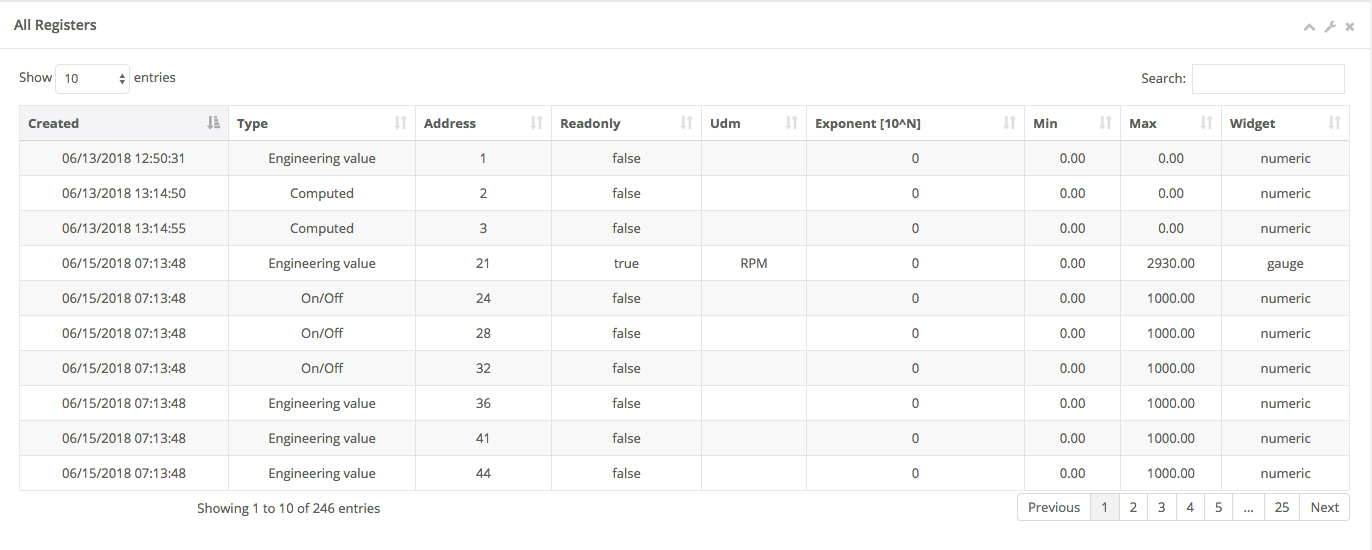
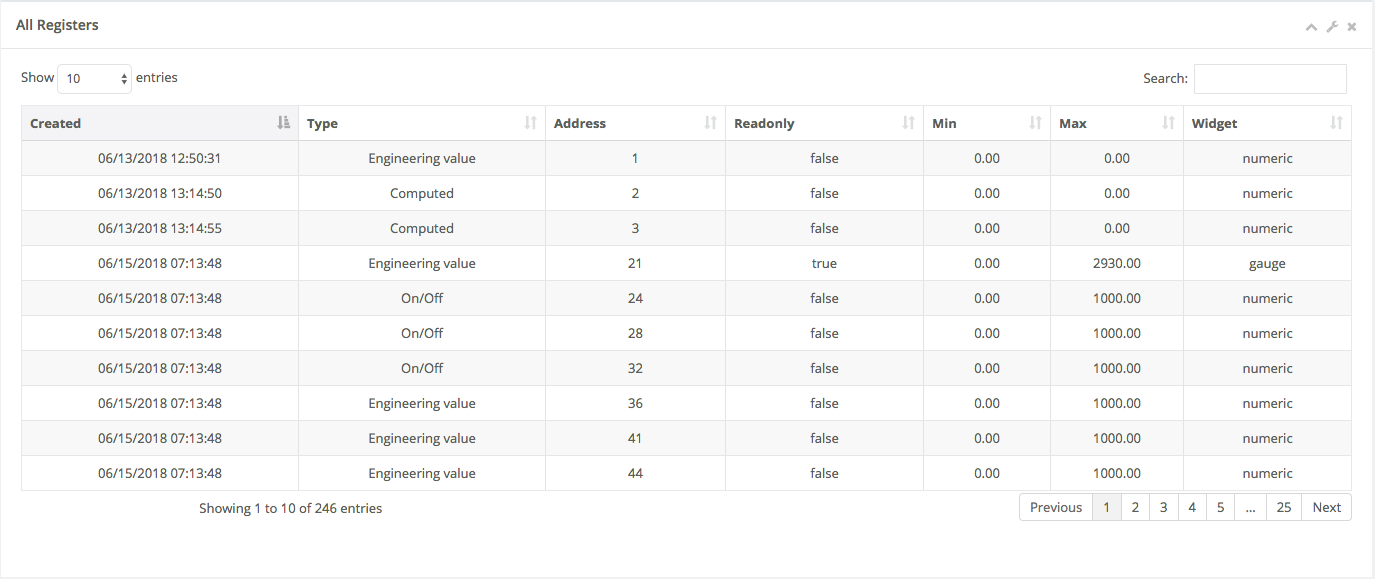
...

diff --git a/datatables_view/templates/datatables_view/datatable.html b/datatables_view/templates/datatables_view/datatable.html
@@ -6,14 +6,6 @@
 
     <h1>{{title}}</h1>
 
-    {% comment %}
-    <div class="datatable_block">
-        <table id="datatable" class="ui small fixed striped table dataTable no-footer" cellspacing="0" width="100%">
-            {% include 'datatables_view/datatable_inner.html' %}
-        </table>
-    </div>
-    {% endcomment %}
-
     <div class="datatable_block">
         <table id="datatable" class="ui small fixed table dataTable no-footer" cellspacing="0" width="100%"></table>
         <div id="extra_footer" style="color: blue;"></div>

diff --git a/datatables_view/views.py b/datatables_view/views.py
@@ -142,15 +142,11 @@ class DatatablesView(View):
     @method_decorator(csrf_exempt)
     def dispatch(self, request, *args, **kwargs):
         if request.is_ajax():
-            # # if settings.DEBUG:
-            # #     trace(str(self.request.GET))
-            # if 'export' in request.GET:
-            #     return self.export_data(request)
             action = request.GET.get('action', '')
 
-            if action == 'render':
+            # TODO: remove 'render' legacy value
+            if action in ['initialize', 'render', ]:
                 return JsonResponse({
-                    'html': self.render_table(request),
                     'columns': self.list_columns(),
                     'order': self.initial_order,
                     'length_menu': self.length_menu,
@@ -194,14 +190,14 @@ class DatatablesView(View):
 
         template_name = self.template_name
 
-        # When called via Ajax, use the "smaller" template "<template_name>_inner.html"
-        if request.is_ajax():
-            template_name = getattr(self, 'ajax_template_name', '')
-            if not template_name:
-                split = self.template_name.split('.html')
-                split[-1] = '_inner'
-                split.append('.html')
-                template_name = ''.join(split)
+        # # When called via Ajax, use the "smaller" template "<template_name>_inner.html"
+        # if request.is_ajax():
+        #     template_name = getattr(self, 'ajax_template_name', '')
+        #     if not template_name:
+        #         split = self.template_name.split('.html')
+        #         split[-1] = '_inner'
+        #         split.append('.html')
+        #         template_name = ''.join(split)
 
         html = render_to_string(
             template_name, {

diff --git a/README.rst b/README.rst
@@ -67,13 +67,13 @@ Example:
 
 
 
-DatatablesView-derived views
-----------------------------
+Basic DatatablesView-derived view
+---------------------------------
 
-To provide server-side rendering of a Django Model, we need a specific
+To provide server-side rendering of a Django Model, you need a specific
 view which will be called via Ajax by the frontend.
 
-At the very minimum, we shoud specify a suitable `column_defs` list.
+At the very minimum, you shoud specify a suitable `column_defs` list.
 
 Example:
 
@@ -100,35 +100,104 @@ Example:
     from django.utils.decorators import method_decorator
 
     from datatables_view.views import DatatablesView
-    from backend.models import Program
+    from backend.models import Register
 
 
     @method_decorator(login_required, name='dispatch')
-    class ProgramDatatablesView(DatatablesView):
+    class RegisterDatatablesView(DatatablesView):
 
-        model = Program
-        title = 'Programs'
+        model = Register
+        title = 'Registers'
 
         column_defs = [
             {
                 'name': 'id',
                 'visible': False,
             }, {
-                'name': 'start_datetime',
+                'name': 'created',
             }, {
-                'name': 'end_datetime',
+                'name': 'type',
             }, {
-                'name': 'favourite',
+                'name': 'address',
+            }, {
+                'name': 'readonly',
+            }, {
+                'name': 'min',
+            }, {
+                'name': 'max',
+            }, {
+                'name': 'widget_type',
             }
         ]
 
-In the previous example, row id is included in the first column, but hidden to the user.
+
+In the previous example, row id is included in the first column of the table,
+but hidden to the user.
+
+DatatablesView will serialize the required data during table navigation;
+in order to render the initial site page, you need another "application" view,
+normally based on a template.
+
+In the template, insert a <table> handler and connect it to the DataTable machinery,
+as show below.
+
+The first ajax call (identified by the `action=initialize` parameter) will provide
+to DataTable the suitable columns specifications (and other details) based on the
+`column_defs` previously defined.
+
+`register_list.html`
+
+.. code:: html
+
+    <table id="datatable_register" width="100%" class="table table-striped table-bordered table-hover dataTables-example">
+    </table>
+
+    ...
+
+    <script language="javascript">
+        $( document ).ready(function() {
+
+            var url = "{% url 'frontend:datatable_register' %}";
+            var table_selector = '#datatable_register';
+
+            $.ajax({
+                type: 'GET',
+                url: url + '?action=initialize',
+                dataType: 'json'
+            }).done(function(data, textStatus, jqXHR) {
+                var table = $(table_selector).DataTable({
+                    "processing": true,
+                    "serverSide": true,
+                    "scrollX": true,
+                    "ajax": {
+                        "url": url,
+                        "type": "GET"
+                    },
+                    "columns": data.columns,
+                    "order": data.order,
+                });
+            });
+        });
+    </script>
 
 .. image:: screenshots/001.png
+
+This strategy allows one or more dynamic tables in the same page.
+
+In simpler situations, where only one table is needed, you can use a single view
+(the one derived from DatatablesView); the rendered page is based on the default
+templage `datatables_view/database.html`, unless overridden.
+
 
 Class attributes
 ----------------
 
+    model = None
+    template_name = 'datatables_view/datatable.html'
+    initial_order = [[1, "asc"]]
+    length_menu = [[10, 20, 50, 100], [10, 20, 50, 100]]
+    column_defs = None
+    show_date_filters = None
 
 column_defs customizations
 --------------------------
